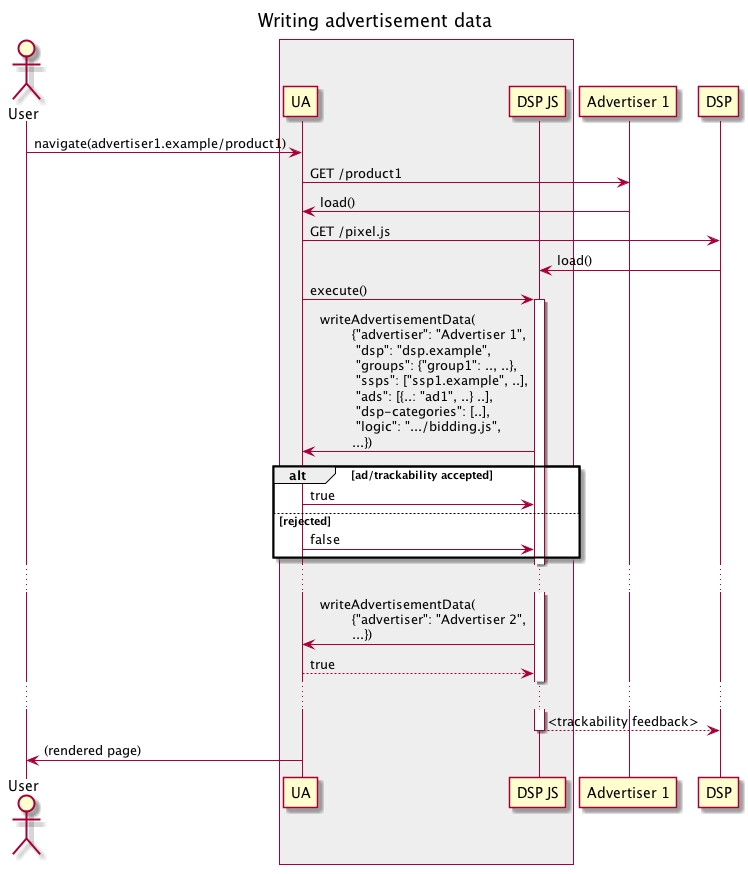
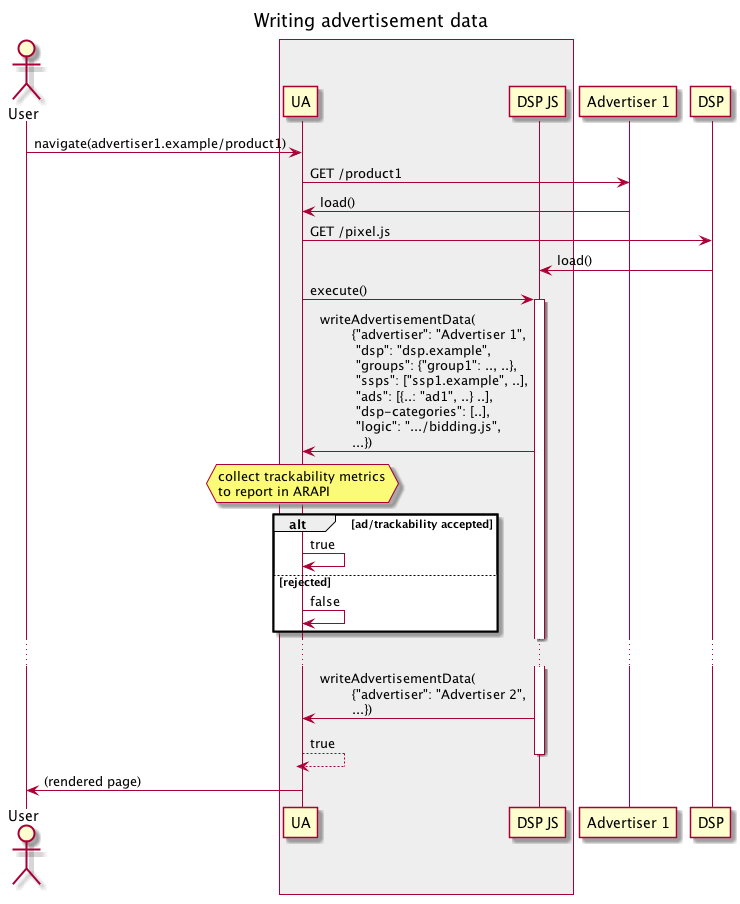
Updated images based on discussion in PR

Changed region(s): [[0.0, 0.0, 0.9946, 1.0], [0.8392, 0.6796, 0.8703, 0.7723], [0.9324, 0.2471, 0.9635, 0.278]]

diff --git a/TERN.md b/TERN.md
@@ -28,6 +28,7 @@ TURTLEDOVE Enhancements with Reduced Networking
   - [a. Validate ads](https://github.com/WICG/turtledove/blob/master/TERN.md#a-validate-ads)
   - [b. Download ad web bundles](https://github.com/WICG/turtledove/blob/master/TERN.md#b-download-ad-web-bundles)
   - [c. Fetch ads request](https://github.com/WICG/turtledove/blob/master/TERN.md#c-fetch-ads-request)
+  - [d. Reporting](https://github.com/WICG/turtledove/blob/master/TERN.md#d-reporting)
 - [3. Publisher Data](https://github.com/WICG/turtledove/blob/master/TERN.md#3-publisher-data)
   - [a. The publisher/contextual request](https://github.com/WICG/turtledove/blob/master/TERN.md#a-the-publishercontextual-request)
   - [b. The SSP](https://github.com/WICG/turtledove/blob/master/TERN.md#b-the-ssp)
@@ -724,6 +725,10 @@ validation are covered by [section 2a](https://github.com/WICG/turtledove/blob/m
 significantly reduce network traffic on the internet so requests don't have to go to an SSP only to be
 forwarded to a DSP, and will also reduce computational resources if the DSP chooses to encrypt its data
 as it passes through the SSP.
+
+### d. Reporting
+
+As in [Aggregate Reporting API](https://github.com/csharrison/aggregate-reporting-api).
 
 ----------------
 
